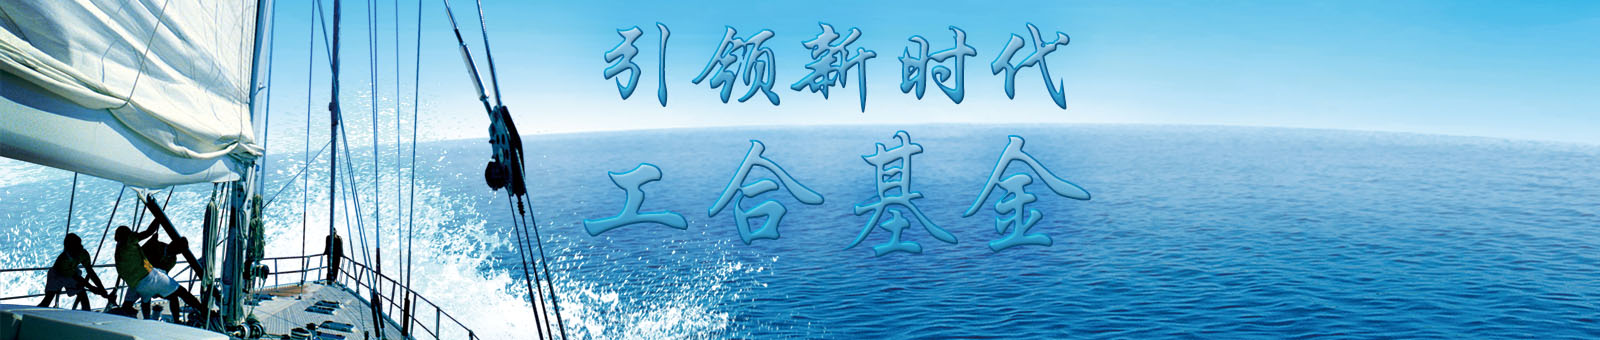
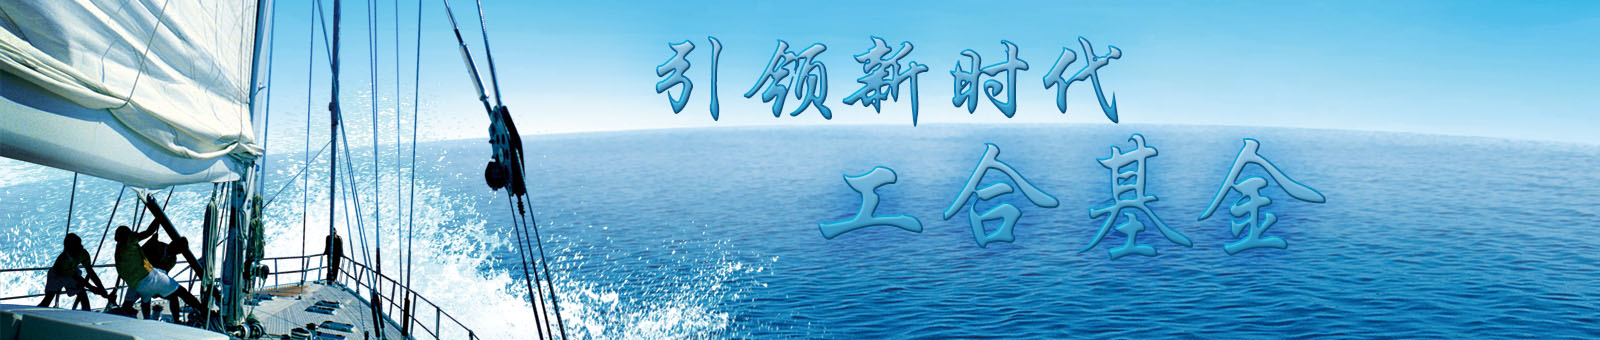
1.74_f

Changed region(s): [[0.3438, 0.3824, 0.8438, 0.7941], [0.375, 0.0588, 0.7188, 0.3529]]

diff --git a/Application/Home/View/default/RichFunds/index.html b/Application/Home/View/default/RichFunds/index.html
@@ -20,22 +20,17 @@
 	<div class="bar_out">
 		<div class="bar">
 			<ul>
-				<li
-					style="background: url(__PUBLIC__/RichFunds/images/weibo.png) no-repeat left center;"><a
+				<li><div style="background:url(__PUBLIC__/Home/images/top_icons.png) no-repeat 0 6px;width:30px;height:36px;float:left;"></div><a
 					href="javascript:;">官方微博</a></li>
-				<li
-					style="background: url(__PUBLIC__/RichFunds/images/weixin.png) no-repeat left center;"><a
-					href="javascript:;">官方微信</a></li>
+				<li><div style="background:url(__PUBLIC__/Home/images/top_icons.png) no-repeat 0 -39px;width:30px;height:36px;float:left;"></div><a href="javascript:;">官方微信</a></li>
+                <li class="phone"><div style="background:url(__PUBLIC__/Home/images/top_icons.png) no-repeat 0 -84px;width:30px;height:36px;float:left;"></div><div style="width:70px;">客户热线：</div><span>400-123-4567</span></li>
 			</ul>
-			<p>
-				客户热线：<span>400-123-4567</span>
-			</p>
             <ul class="bar_aside">
-			<li><input type="button" class="bar_aside_btn"
-				style="background: url(__PUBLIC__/RichFunds/images/denglu.png) no-repeat;" /></li>
-			<li><input type="button" class="bar_aside_btn"
-				style="background: url(__PUBLIC__/RichFunds/images/zhuce.png) no-repeat;" /></li>
-		</ul>
+                <li><input type="button" class="bar_aside_btn"
+                    style="color:#ef681f;" value="登录"/></li>
+                <li><input type="button" class="bar_aside_btn"
+                    style="color:#65bae1;" value="注册" /></li>
+			</ul>
 		</div>
 	</div>
 	<!--头部  bar end-->
@@ -45,9 +40,9 @@
 	<div class="nav_out">
 		<h1>
 			<a href="index.html"><img
-				src="__PUBLIC__/RichFunds/images/logo.png" width="57" height="48"
+				src="__PUBLIC__/RichFunds/images/biaozhi.png" width="57" height="48"
 				class="logo" /><img
-				src="__PUBLIC__/RichFunds/images/gonghecaifu.png" width="123"
+				src="__PUBLIC__/RichFunds/images/gonghejijin.png" width="123"
 				height="40" class="logo_wz" /></a>
 		</h1>
 		<ul class="nav">
@@ -66,7 +61,7 @@
 	<div class="banner">
 		<ul class="ban">
 			<li style="z-index: 1;"><img
-				src="__PUBLIC__/RichFunds/images/banner_pic1.jpg" width="1600"
+				src="__PUBLIC__/RichFunds/images/banner_pic1.png" width="1600"
 				height="338" /></li>
 			<li><img src="__PUBLIC__/RichFunds/images/banner_pic2.jpg"
 				width="1600" height="338" /></li>
@@ -120,9 +115,9 @@
 				<!--con_bot_l_tab start-->
 				<div class="con_bot_l_tab">
 					<ul class="con_bot_l_tab_head">
-						<li class="con_bot_l_tab_ul_cur">互助资金</li>
-						<li>并购资金</li>
-						<li>投资资金</li>
+						<li class="con_bot_l_tab_ul_cur">工合财富</li>
+						<li>工合众筹</li>
+						<li>基金产品</li>
 					</ul>
 					<!--tab切换部分-->
 					<div class="con_bot_l_tab_conOut">
@@ -192,7 +187,61 @@
 				</div>
 				<!--con_bot_l_tab end-->
 
-				
+				<!--con_bot_l_con2 start-->
+				<div class="con_bot_l_con2">
+					<dl class="con_bot_l_con2_dl">
+						<dt>
+							<h3>基金定投</h3>
+							<p>保本保息，轻松理财</p>
+						</dt>
+						<dd>
+							<p style="font-size: 18px; color: #d76543; font-weight: bold;">8%~10%</p>
+							<p>预计年化收益</p>
+							<p>50000起投</p>
+							<p>投资周期：1-5年</p>
+						</dd>
+					</dl>
+					<dl class="con_bot_l_con2_dl">
+						<dt>
+							<h3
+								style="background: url(__PUBLIC__/RichFunds/images/tubiao5.png) no-repeat 20px center;">资产抵押系列</h3>
+							<p>期限固定，工和担保</p>
+						</dt>
+						<dd>
+							<p style="font-size: 18px; color: #d76543; font-weight: bold;">8%~10%</p>
+							<p>预计年化收益</p>
+							<p>50000起投</p>
+							<p>投资周期：1-5年</p>
+						</dd>
+					</dl>
+					<dl class="con_bot_l_con2_dl">
+						<dt>
+							<h3
+								style="background: url(__PUBLIC__/RichFunds/images/tubiao6.png) no-repeat 20px center;">信用系列</h3>
+							<p>信誉企业，较高收益</p>
+						</dt>
+						<dd>
+							<p style="font-size: 18px; color: #d76543; font-weight: bold;">8%~10%</p>
+							<p>预计年化收益</p>
+							<p>50000起投</p>
+							<p>投资周期：1-5年</p>
+						</dd>
+					</dl>
+					<dl class="con_bot_l_con2_dl" style="margin-right: 0;">
+						<dt>
+							<h3
+								style="background: url(__PUBLIC__/RichFunds/images/tubiao7.png) no-repeat 20px center;">股权系列</h3>
+							<p>股权质押，保本回购</p>
+						</dt>
+						<dd>
+							<p style="font-size: 18px; color: #d76543; font-weight: bold;">8%~10%</p>
+							<p>预计年化收益</p>
+							<p>50000起投</p>
+							<p>投资周期：1-5年</p>
+						</dd>
+					</dl>
+				</div>
+				<!--con_bot_l_con2 end-->
 
 				<!--con_bot_l_con3 start-->
 				<div class="con_bot_l_con3">
@@ -324,61 +373,7 @@
 				</div>
 				<!--con_bot_l_con3 end-->
                 
-                <!--con_bot_l_con2 start-->
-				<div class="con_bot_l_con2">
-					<dl class="con_bot_l_con2_dl">
-						<dt>
-							<h3>基金定投</h3>
-							<p>保本保息，轻松理财</p>
-						</dt>
-						<dd>
-							<p style="font-size: 18px; color: #d76543; font-weight: bold;">8%~10%</p>
-							<p>预计年化收益</p>
-							<p>50000起投</p>
-							<p>投资周期：1-5年</p>
-						</dd>
-					</dl>
-					<dl class="con_bot_l_con2_dl">
-						<dt>
-							<h3
-								style="background: url(__PUBLIC__/RichFunds/images/tubiao5.png) no-repeat 20px center;">资产抵押系列</h3>
-							<p>期限固定，工和担保</p>
-						</dt>
-						<dd>
-							<p style="font-size: 18px; color: #d76543; font-weight: bold;">8%~10%</p>
-							<p>预计年化收益</p>
-							<p>50000起投</p>
-							<p>投资周期：1-5年</p>
-						</dd>
-					</dl>
-					<dl class="con_bot_l_con2_dl">
-						<dt>
-							<h3
-								style="background: url(__PUBLIC__/RichFunds/images/tubiao6.png) no-repeat 20px center;">信用系列</h3>
-							<p>信誉企业，较高收益</p>
-						</dt>
-						<dd>
-							<p style="font-size: 18px; color: #d76543; font-weight: bold;">8%~10%</p>
-							<p>预计年化收益</p>
-							<p>50000起投</p>
-							<p>投资周期：1-5年</p>
-						</dd>
-					</dl>
-					<dl class="con_bot_l_con2_dl" style="margin-right: 0;">
-						<dt>
-							<h3
-								style="background: url(__PUBLIC__/RichFunds/images/tubiao7.png) no-repeat 20px center;">股权系列</h3>
-							<p>股权质押，保本回购</p>
-						</dt>
-						<dd>
-							<p style="font-size: 18px; color: #d76543; font-weight: bold;">8%~10%</p>
-							<p>预计年化收益</p>
-							<p>50000起投</p>
-							<p>投资周期：1-5年</p>
-						</dd>
-					</dl>
-				</div>
-				<!--con_bot_l_con2 end-->
+                
 			</div>
 			<!--con_bot_l end-->
 

diff --git a/Public/RichFunds/css/jijinStyle.css b/Public/RichFunds/css/jijinStyle.css
@@ -12,16 +12,19 @@ a:hover{color:#0A99DB;text-decoration:none;}
 /*----bar----------------*/
 .bar_out{width:100%;height:36px;background:#474747;}
 .bar{width:980px;height:36px;margin:0 auto;overflow:hidden;}
-.bar ul{float:left;width:240px;height:36px;overflow:hidden;}
-.bar ul li{float:left;width:60px;height:36px;line-height:36px;padding:0 30px;}
-.bar ul li a{color:#a09fa4;}
-.bar p{float:left;width:172px;padding-left:20px;height:36px;line-height:36px;background:url(../images/phone.png) no-repeat left center;color:#a09fa4;}
-.bar p span{color:#cb6443;font-weight:bold;}
+.bar ul{float:left;width:auto;height:36px;overflow:hidden;}
+.bar ul li{float:left;width:90px;height:36px;line-height:36px;padding:0 30px 0 0;}
+.bar ul li a{color:#a09fa4;float:left;}
+.bar ul .phone{float:left;width:auto;height:36px;line-height:36px;color:#a09fa4;}
+.bar ul .phone div{background:url(__PUBLIC__/Home/images/top_icons.png) no-repeat 0 -39px;width:30px;height:36px;float:left;}
+.bar ul .phone span{color:#cb6443;font-weight:bold;float:left;}
+/*.bar p{float:left;width:192px;height:36px;line-height:36px;color:#a09fa4;}*/
+/*.bar p span{color:#cb6443;font-weight:bold;float:left;}*/
 
 /*----bar_aside----------------*/
-.bar_out .bar_aside{float:right;width:120px;height:35px;overflow:hidden;}
-.bar_out .bar_aside li{padding:0;float:left;width:48px;height:32px;margin-right:5px;}
-.bar_out .bar_aside li .bar_aside_btn{width:48px;height:32px;cursor:pointer;}
+.bar_out .bar_aside{float:right;width:120px;height:36px;overflow:hidden;}
+.bar_out .bar_aside li{padding:0;float:left;width:30px;height:36px;margin-right:5px;}
+.bar_out .bar_aside li .bar_aside_btn{float:left;width:30px;height:36px;line-height:36px;cursor:pointer;background:none;}
 
 
 /*-----------nav----------------*/
@@ -83,16 +86,16 @@ a:hover{color:#0A99DB;text-decoration:none;}
 /*-------con_bot_l_con3------------------*/
 .con .con_bot .con_bot_l .con_bot_l_con3{width:690px;height:auto;overflow:hidden;}
 .con .con_bot .con_bot_l .con_bot_l_con3 h3{width:690px;height:56px;line-height:56px;font-size:22px;}
-.con .con_bot .con_bot_l .con_bot_l_con3 .con_bot_l_con3_01{width:216px;height:280px;border:1px solid #b19a78;float:left;padding-top:15px;margin-right:18px;margin-bottom:25px;}
-.con .con_bot .con_bot_l .con_bot_l_con3 .con_bot_l_con3_01 dl{width:185px;padding:0 15px;height:233px;border-bottom:1px solid #b19a78;}
+.con .con_bot .con_bot_l .con_bot_l_con3 .con_bot_l_con3_01{width:216px;height:233px;border:1px solid #b19a78;float:left;padding-top:15px;margin-right:18px;margin-bottom:25px;}
+.con .con_bot .con_bot_l .con_bot_l_con3 .con_bot_l_con3_01 dl{width:186px;padding:0 15px;height:233px;border-bottom:1px solid #b19a78;}
 .con .con_bot .con_bot_l .con_bot_l_con3 .con_bot_l_con3_01 dl dt{width:185px;height:69px;background:url(../images/prince1.png) no-repeat;}
 .con .con_bot .con_bot_l .con_bot_l_con3 .con_bot_l_con3_01 dl dd{width:185px;height:27px;line-height:27px;font-size:12px;}
 .con .con_bot .con_bot_l .con_bot_l_con3 .con_bot_l_con3_01 dl dd span{color:#e09e64;}
 .con .con_bot .con_bot_l .con_bot_l_con3 .con_bot_l_con3_01 dl dd b{font-weight:normal;color:#447fa7;}
 .con .con_bot .con_bot_l .con_bot_l_con3 .con_bot_l_con3_01 dl dd .out{width:145px;height:6px;background:#cdcdcd;display:inline-block;border-radius:3px;}
 .con .con_bot .con_bot_l .con_bot_l_con3 .con_bot_l_con3_01 dl dd .out .in{width:45%;height:6px;background:#f1b37a;display:inline-block;border-radius:3px;}
-.con .con_bot .con_bot_l .con_bot_l_con3 .con_bot_l_con3_01 .con_bot_l_con3_01_btn{width:121px;height:32px;background:#ef8328;border-radius:3px;margin:10px 0 0 48px;color:#fff;font-size:16px;line-height:32px;cursor:pointer;}
-.con .con_bot .con_bot_l .con_bot_l_con3 .con_bot_l_con3_01 .con_bot_l_con3_01_btn1{width:121px;height:32px;background:#ccc;border-radius:3px;margin:10px 0 0 48px;color:#fff;font-size:16px;line-height:32px;}
+.con .con_bot .con_bot_l .con_bot_l_con3 .con_bot_l_con3_01 .con_bot_l_con3_01_btn{width:121px;height:32px;background:#ef8328;border-radius:3px;margin:10px 0 0 48px;color:#fff;font-size:16px;line-height:32px;cursor:pointer;display:none;}
+.con .con_bot .con_bot_l .con_bot_l_con3 .con_bot_l_con3_01 .con_bot_l_con3_01_btn1{width:121px;height:32px;background:#ccc;border-radius:3px;margin:10px 0 0 48px;color:#fff;font-size:16px;line-height:32px;display:none;}
 
 /*-----con_bot_r-----------*/
 .con .con_bot .con_bot_r{float:right;width:250px;height:auto;padding-right:13px;}

diff --git a/Public/Home/css/style.css b/Public/Home/css/style.css
@@ -547,7 +547,7 @@ line-height: 38px;}
 .box .otherh2x {width:932px;  font-family: "微软雅黑"; font-size: 16px; color: #333; padding-left: 15px; text-align: left; }
 .box .boxmain2 { padding-top: 20px; padding-bottom: 25px; }
 .box .boxmain2 .srh { line-height: 32px; margin-bottom: 12px; }
-.box .boxmain2 .srh input{ vertical-align: middle}
+.box .boxmain2 .srh input{width:78px; vertical-align: middle}
 .box .boxmain2 .srh a{ vertical-align: middle}
 .cxbtn { line-height: 18px; color: #333; background-image: url(../rzg_images/030213_3.jpg); background-repeat: repeat-x; text-align: center; display: inline-block; height: 18px; width: 58px; border: 1px solid #ccc; }
 .cxbtn:hover { color: #000; }
@@ -584,17 +584,18 @@ line-height: 38px;}
 /*前台内页上传区域*/
 .rmainbox .tab table tr th { font-size: 16px; background-color: #FAFAFA; padding-left: 30px; line-height: 28px; }
 .rmainbox .rzbox { margin-top: 8px; margin-bottom: 20px; }
-.rmainbox .rzbox h3 { font-size: 14px; line-height: 32px; font-weight: bold; color: #666; }
+.rmainbox .rzbox h3 {width:890px; font-size: 14px; line-height: 32px; font-weight: bold; color: #666; }
 .rmainbox .rzbox .txt { line-height: 24px; }
 .rmainbox .rzbox .jbrz { height: auto; }
 .rmainbox .rzbox .jbrz ul li { float: left; width: 170px; margin-right: 50px; border: 1px solid #ddd; height: 62px; padding: 15px; margin-bottom: 25px; position: relative; }
 .rmainbox .rzbox .jbrz ul li .pic { float: left; width: 62px; margin-right: 25px; }
-.rmainbox .rzbox .jbrz ul li .shangchuan { line-height: 28px; text-align: center; float: left; }
+.rmainbox .rzbox .jbrz ul li .shangchuan { line-height: 28px; text-align: center; float: left; width:78px;}
 .rmainbox .rzbox .jbrz ul li .shangchuan h3 { font-size: 12px; color: #136dad; font-weight: normal; }
 .rmainbox .rzbox .jbrz ul li .shico { line-height: 20px; color: #999; background-color: #f7f7f7; text-align: center; height: 20px; width: 52px; border: 1px solid #eee; position: absolute; left: 162px; top: -6px; z-index: 2; }
 
 .rmainbox .rzbox .kxrz { height: auto; }
-.rmainbox .rzbox .kxrz ul li { float: left; width: 82px; margin-right: 29px; border: 1px solid #ddd; height: 62px; padding: 15px; margin-bottom: 25px; position: relative; }
+.rmainbox .rzbox .kxrz ul{overflow:hidden;}
+.rmainbox .rzbox .kxrz ul li { float: left; width: 82px; margin-right: 29px; border: 1px solid #ddd; height: 62px; padding: 15px; margin-bottom: 25px; position: relative; overflow:hidden;}
 .rmainbox .rzbox .kxrz ul li .pic { float: left; width: 62px; margin-right: 25px; }
 .rmainbox .rzbox .kxrz ul li .shangchuan { line-height: 28px; text-align: center; }
 .rmainbox .rzbox .kxrz ul li .shangchuan h3 { font-size: 12px; color: #136dad; font-weight: normal; }

diff --git a/Public/Static/rzg_css/css.css b/Public/Static/rzg_css/css.css
@@ -36,7 +36,7 @@ table{ border-collapse:collapse;}
 .sel_140 { height: 20px; width: 140px;  border: 1px solid #adbcc7;}
 .inp200 { line-height: 24px; color: #333; background-image: url(../rzg_images/neiye1_16.jpg); background-repeat: no-repeat; background-position: 2px center; height: 24px; width: 200px; padding-left: 18px; border: 1px solid #adbcc7; }
 .inp140 { height: 20px; width: 140px; border: 1px solid #ccc; line-height: 20px; }
-.inp80 { height: 20px; width: 100px; border: 1px solid #ccc; line-height: 20px; }
+.inp80 { height: 26px; width: 160px; border: 1px solid #ccc; line-height: 26px; }
 .inp40 { height: 20px; width: 60px; border: 1px solid #ccc; line-height: 20px; text-align: center; }
 .chaxun { font-family: "微软雅黑"; font-size: 12px; line-height: 26px; color: #FFF; border:none; cursor:pointer; background-image: url(../rzg_images/neiye1_166.jpg); background-repeat: no-repeat; text-align: center; display: inline-block; height: 26px; width: 66px; }
 .vipbtn { line-height: 24px; color: #ad0907; background-image: url(../rzg_images/022713_7.jpg); background-repeat: no-repeat; display: inline-block; height: 24px; width: 88px; margin-left: 60px; padding-left: 30px; }
@@ -496,7 +496,7 @@ height:0px;
 .nymain .bigbox .sqdk .l-nav ul .on a { color: #FFF; background: url(../rzg_images/sqdk_0333.png) no-repeat; line-height: 44px; font-size:18px}
 .nymain .bigbox .sqdk .l-nav ul .on a span{ font-size:14px; font-family:Arial, Helvetica, sans-serif; text-transform:uppercase; color:#e38f8f; }
 .nymain .bigbox .sqdk .l-nav ul .on a:hover { color: #FFF; background: url(../rzg_images/sqdk_0333.png) no-repeat ; line-height: 44px; }
-.r-main { float: left; width: 779px; border: 1px solid #eee; }
+.r-main { float: left; width: 779px;height:auto; border: 1px solid #eee; }
 .nymain .bigbox .sqdk .r-main .til01 { background: url(../rzg_images/sqdk_03.jpg) repeat-x; height:40px; overflow: hidden; height: 100%; }
 .nymain .bigbox .sqdk .r-main .til01 li{ height:40px; float:left; padding:0 15px; line-height:38px; cursor:pointer; }
 

diff --git a/Application/Home/View/default/Borrow/papersinfo.html b/Application/Home/View/default/Borrow/papersinfo.html
@@ -18,7 +18,7 @@
 						<div class="rmainbox">
 
 							<p class="tips">
-								温馨提示：融资谷对于用户上传的所有信息，都将进行加密处理。您可以在此放心上传个人材料，您的个人信息将不会被以任何形式外泄。
+								温馨提示：工合财富对于用户上传的所有信息，都将进行加密处理。您可以在此放心上传个人材料，您的个人信息将不会被以任何形式外泄。
 								<br />
 								<span class="fred">注：认证资料上传完毕后，等待后台进行审核。</span>
 							</p>
@@ -26,8 +26,8 @@
 								<h3>
 									必要认证
 								</h3>
-								<p class="txt">
-									&nbsp;
+								<p class="txt">&nbsp;0
+									
 								</p>
 								<div class="jbrz">
 									<ul>
@@ -37,10 +37,8 @@
 													height="62" id="img_identiy" />
 											</div>
 											<div class="shangchuan">
-												<h3>
-													
-												</h3>
- <input type="button" id="test2" class="scbtn" style="cursor: pointer;" value="添加" onclick="fff()"/>
+												<h3></h3>
+ <input type="button" id="test2" class="scbtn" style="cursor: pointer;width:78px;" value="添加" onclick="fff()"/>						
 											</div>
 											<div class="shico">
 												待上传
@@ -55,8 +53,8 @@
 								<h3>
 									已上传的认证
 								</h3>
-								<p class="txt">
-									&nbsp;
+								<p class="txt">&nbsp;
+									
 								</p>
 								<div class="kxrz">
 									<ul>

diff --git a/Application/Home/View/default/Newhelp/borrowhelp.html b/Application/Home/View/default/Newhelp/borrowhelp.html
@@ -312,7 +312,7 @@
 						<li>2. 银行账户冻结或正在办理挂失</li>
 						<li>3.开户行等银行信息错误</li>
 						<li>4.使用信用卡提现</li>
-						<li>5.银行卡身份证名字信息跟在人人聚财实名认证身份证名字信息不一致</li>
+						<li>5.银行卡身份证名字信息跟在工合财富实名认证身份证名字信息不一致</li>
 						<li>6.第一次提现工合财富会有专门的财务人员与您进行联系，若没有联系上，则审核不通过，提示失败。</li>
 					</ul>
 				</div>

diff --git a/Application/Member/View/default/System/usermailindex.html b/Application/Member/View/default/System/usermailindex.html
@@ -156,7 +156,7 @@
 								  <tr>
 								    <td>&nbsp;</td>
 								    <td style="padding-top:20px;">
-								    <input type="button" class="bcbtn" onclick="addMail()" id="btnSave" value="提交发送"></td>
+								    <input type="button" class="bcbtn" onclick="addMail()" id="btnSave" value="提交发送" style="width:88px;"></td>
 								  </tr>
 								  <tr>
 								    <td>&nbsp;</td>
